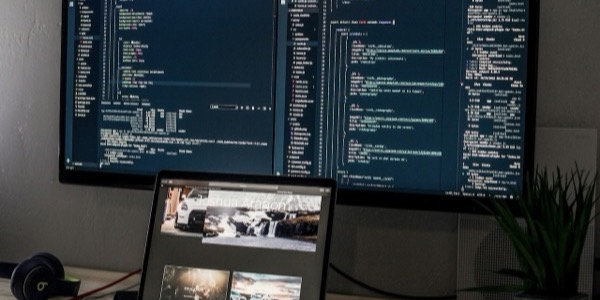
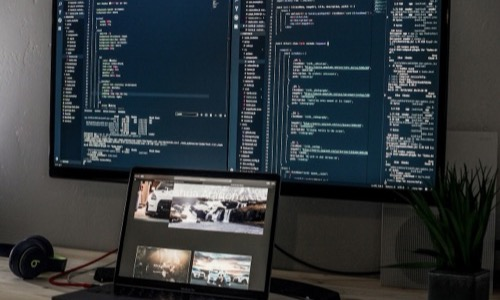
refactor: resize feature-row images to 500x300 teaser size
* Re-crop skillwell.jpg, guides.png, portfolio.jpg and the Posts card image to 500x300, the Minimal Mistakes recommended teaser size, from the original sources
* Rename posts-2x1.jpg to posts.jpg to match the suffix-less naming of its sibling feature-row images and update its reference in _pages/home.md
* Keeps all home-page feature-row cards a uniform 5:3 ratio aligned with theme conventions

https://ibanfr.atlassian.net/browse/SITE-35

diff --git a/_pages/home.md b/_pages/home.md
@@ -38,7 +38,7 @@ posts_row:
   - title: "Posts"
     excerpt: "Browse a list of my recent posts, including topics on AI assisted development, technical 
     coaching, and extreme programming. Explore practical guides, case studies, and insights across these categories."
-    image_path: /assets/images/pages/posts-2x1.jpg
+    image_path: /assets/images/pages/posts.jpg
     url: "/posts/"
     btn_class: "btn--primary"
     btn_label: "Read the posts"
